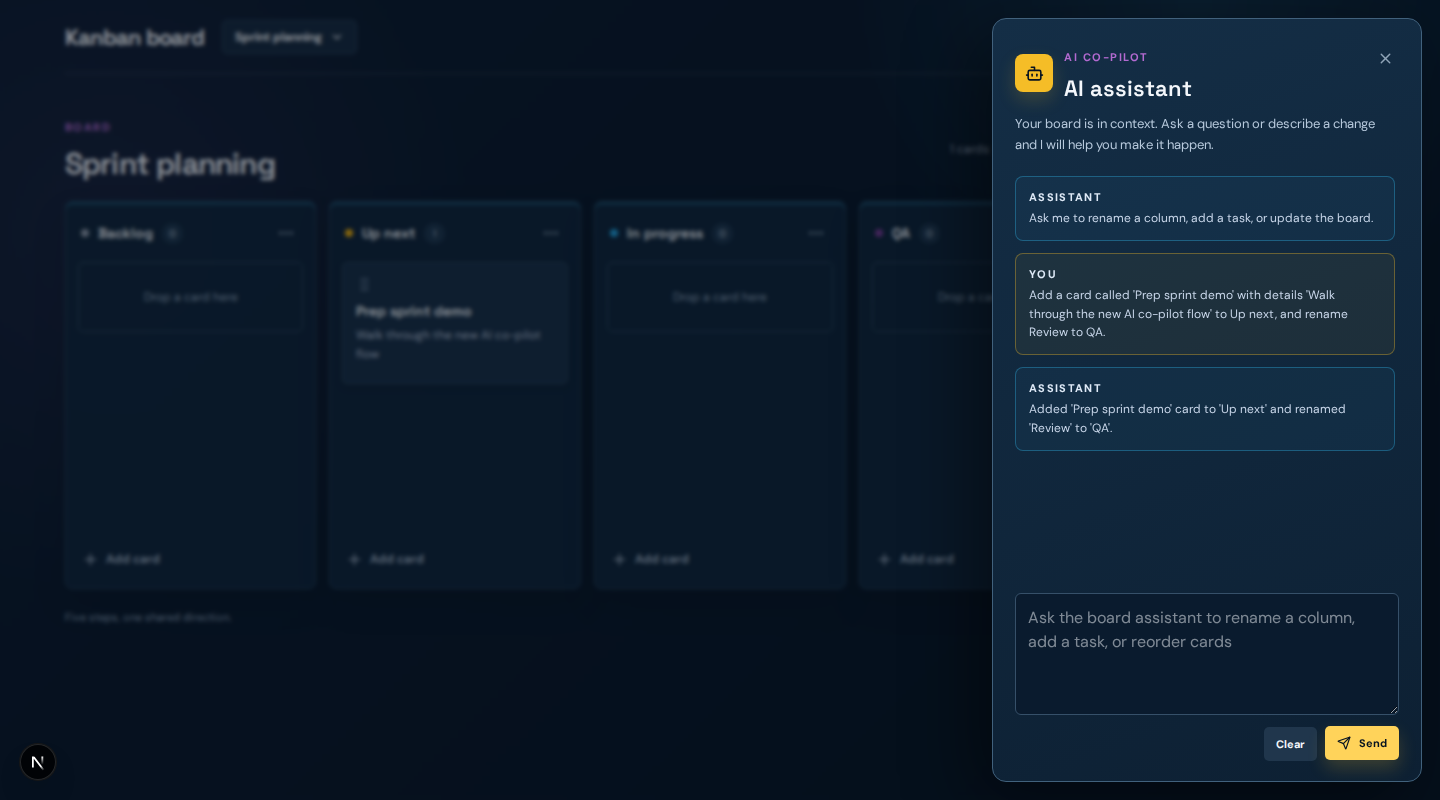
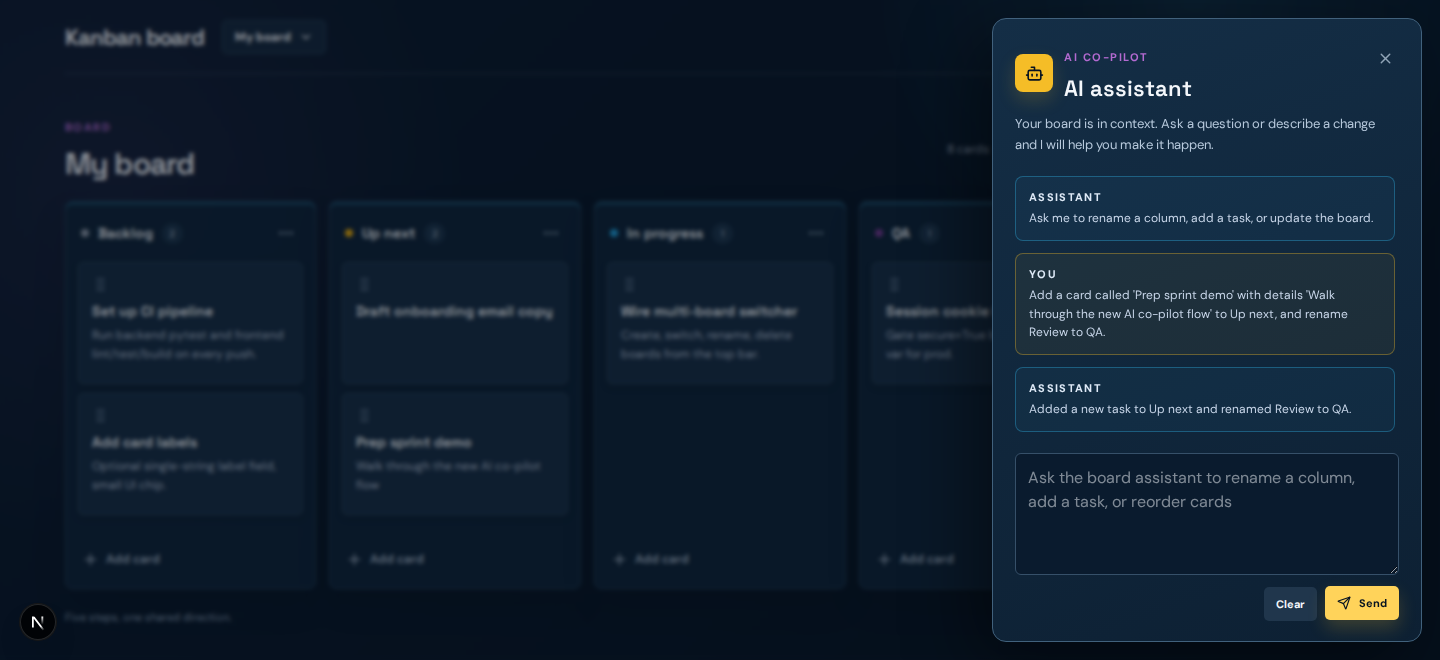
Refresh stale README screenshots against the real, current app
Both screenshots predated the footer-copy fix (50e7473) by 11 days and
still showed the old "Changes live in this session only" text baked
into the image, even though the live app has said "Changes save
automatically to your account" since that fix.

Recaptured both against a real local instance (Postgres + backend +
frontend, driven with Playwright, not mocked): a fresh signup with a
populated demo board for the main screenshot, and the AI co-pilot
screenshot re-runs the exact prompt quoted in the README against the
real Groq model rather than staging fake UI state. Updated the quoted
assistant reply in README to match the real response captured.

diff --git a/README.md b/README.md
@@ -41,7 +41,7 @@ Ask it to read the board or change it - the same request handles both, since the
 
 > **You:** Add a card called "Prep sprint demo" with details "Walk through the new AI co-pilot flow" to Up next, and rename Review to QA.
 >
-> **Assistant:** Added 'Prep sprint demo' card to 'Up next' and renamed 'Review' to 'QA'.
+> **Assistant:** Added a new task to Up next and renamed Review to QA.
 
 ![AI co-pilot editing a board in real time](docs/kanban-ai-copilot-screenshot.png)
 
